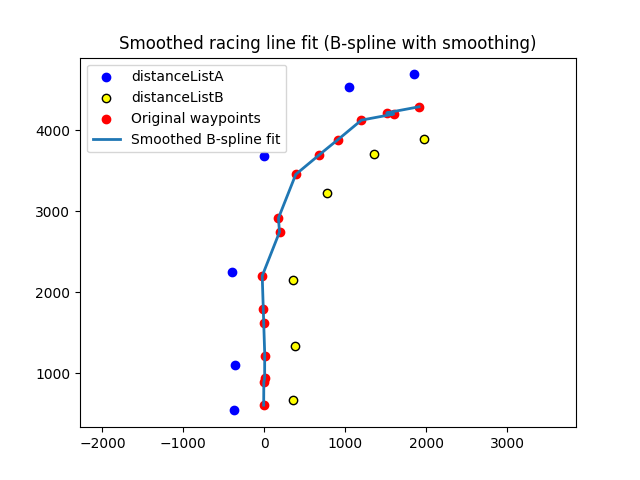
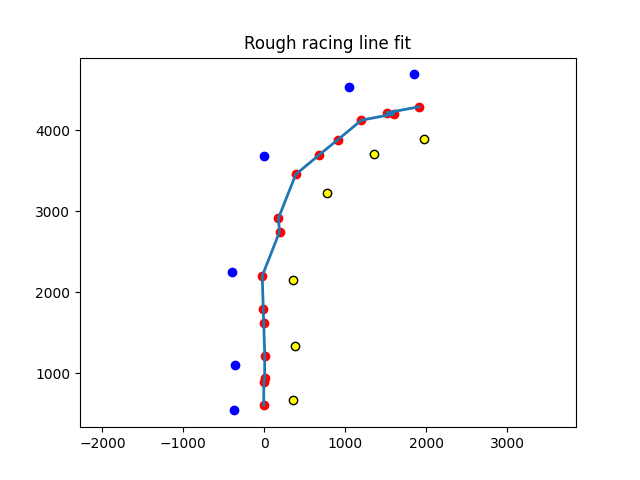
Graph

Changed region(s): [[0.125, 0.0625, 0.8438, 0.3125]]

diff --git a/Base/MR121_Logic/MR121_logic.py b/Base/MR121_Logic/MR121_logic.py
@@ -203,7 +203,7 @@ t = t / t[-1]  # normalize to 0..1
 # ★ KEY PART: smoothing factor s > 0 (tune this!)
 # s=0 → exact through points (bad for racing line)
 # s=50–200 → smooth but still follows general shape
-tck, u = splprep([x, y], u=t, s=0, k=1)
+tck, u = splprep([x, y], u=t, s=50000, k=5)
 # print("tck: ")
 # print(tck)
 # print("u: ")
